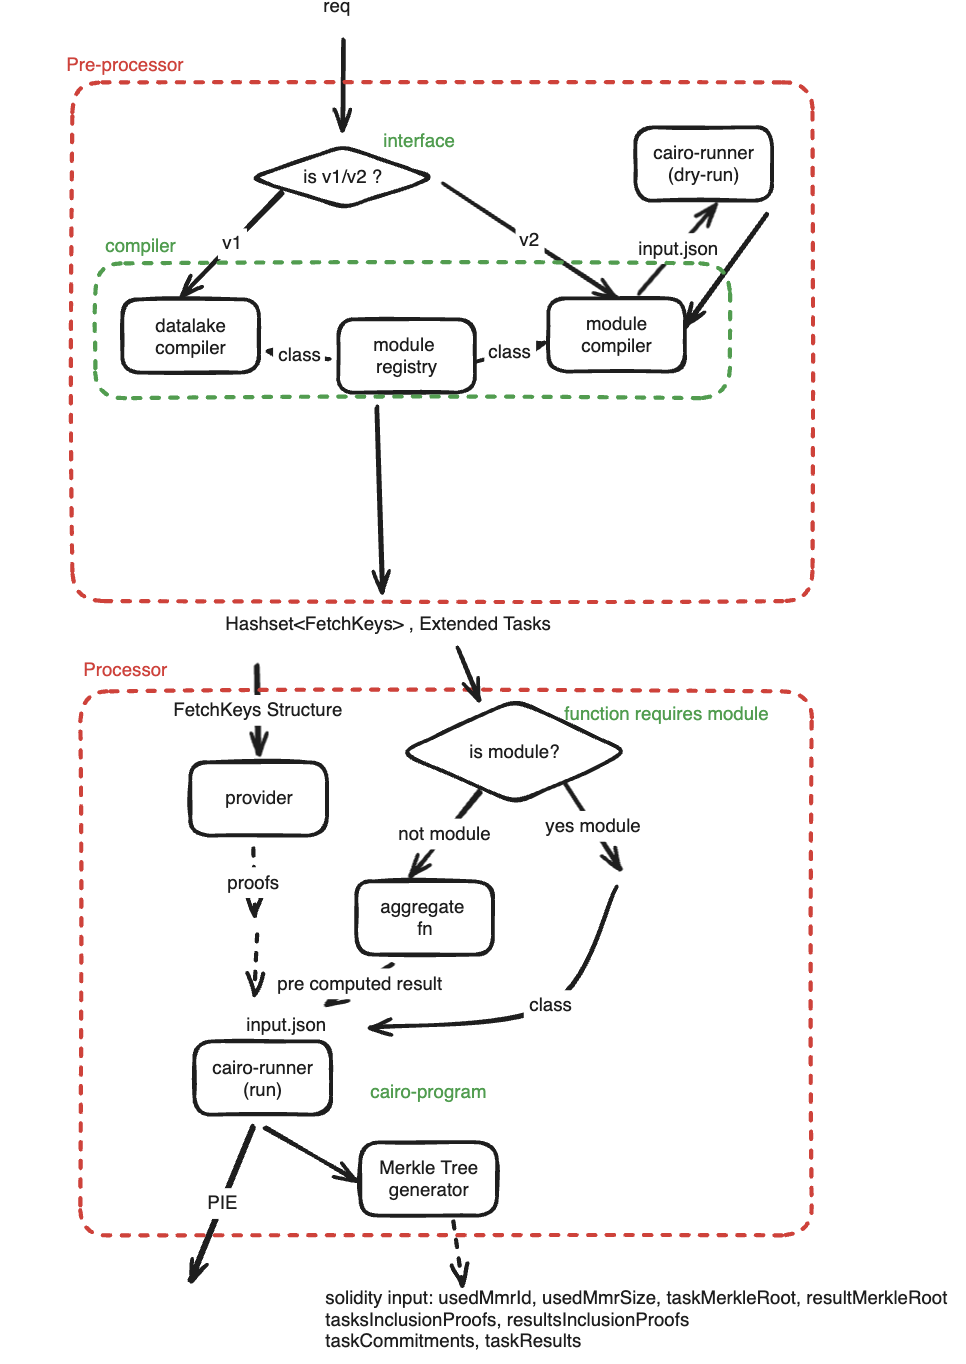
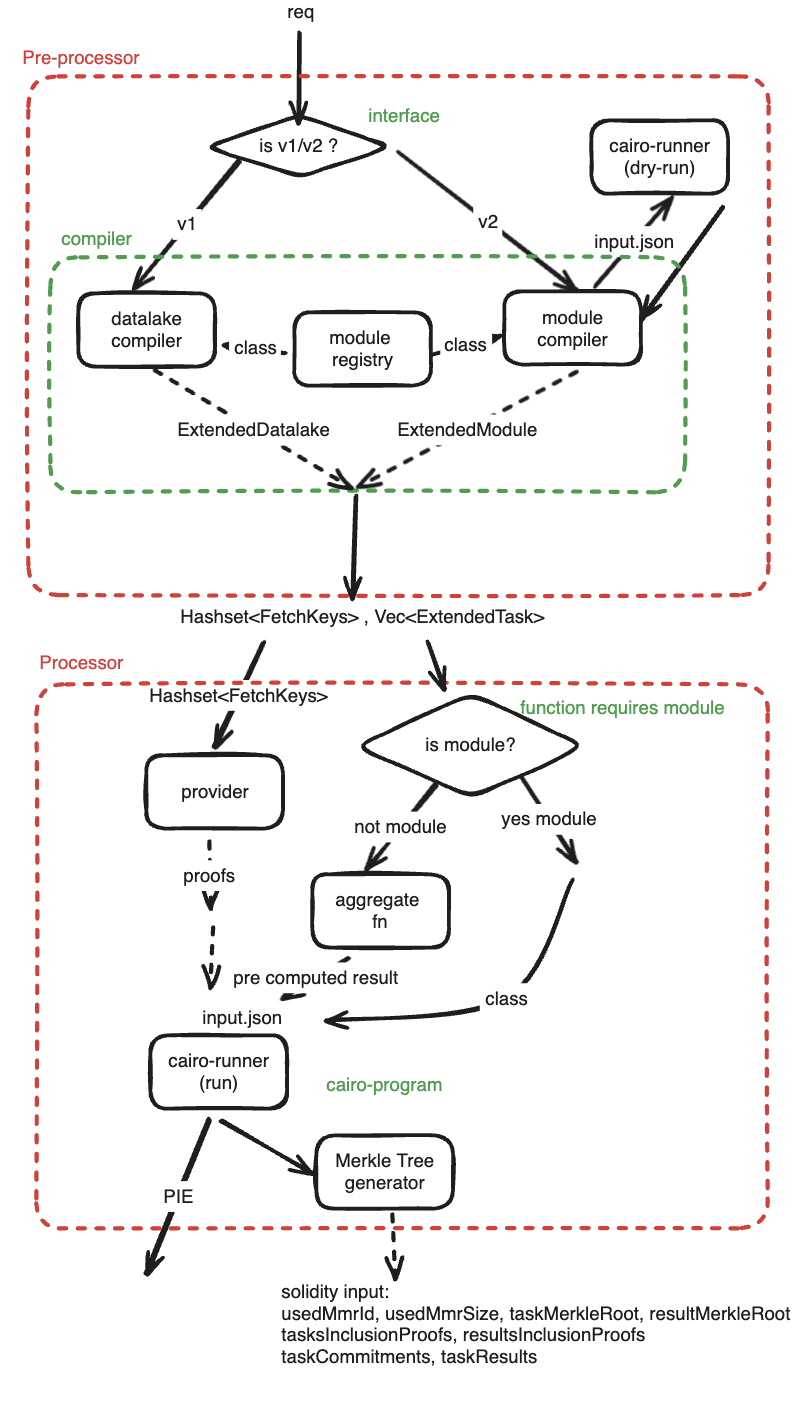
update design

diff --git a/crates/primitives/src/task.rs b/crates/primitives/src/task.rs
@@ -1,3 +1,5 @@
+//! Task is a unit of work that can be executed by the processor/pre-processor.
+
 use cairo_lang_starknet_classes::casm_contract_class::CasmContractClass;
 use starknet_crypto::FieldElement;
 

diff --git a/crates/core-new/README.md b/crates/core-new/README.md
@@ -1,7 +1,7 @@
 # Data Processor Core
 
-![](../../.github/core.png)
-
 ## Compiler
 
 Compiler is responsible to turn request into `HashSet<FetchKeyEnvelope>` format and extended request format so that processor can perform it's job easily and generic way regardless of the interface.
+
+![](../../.github/core.png)
